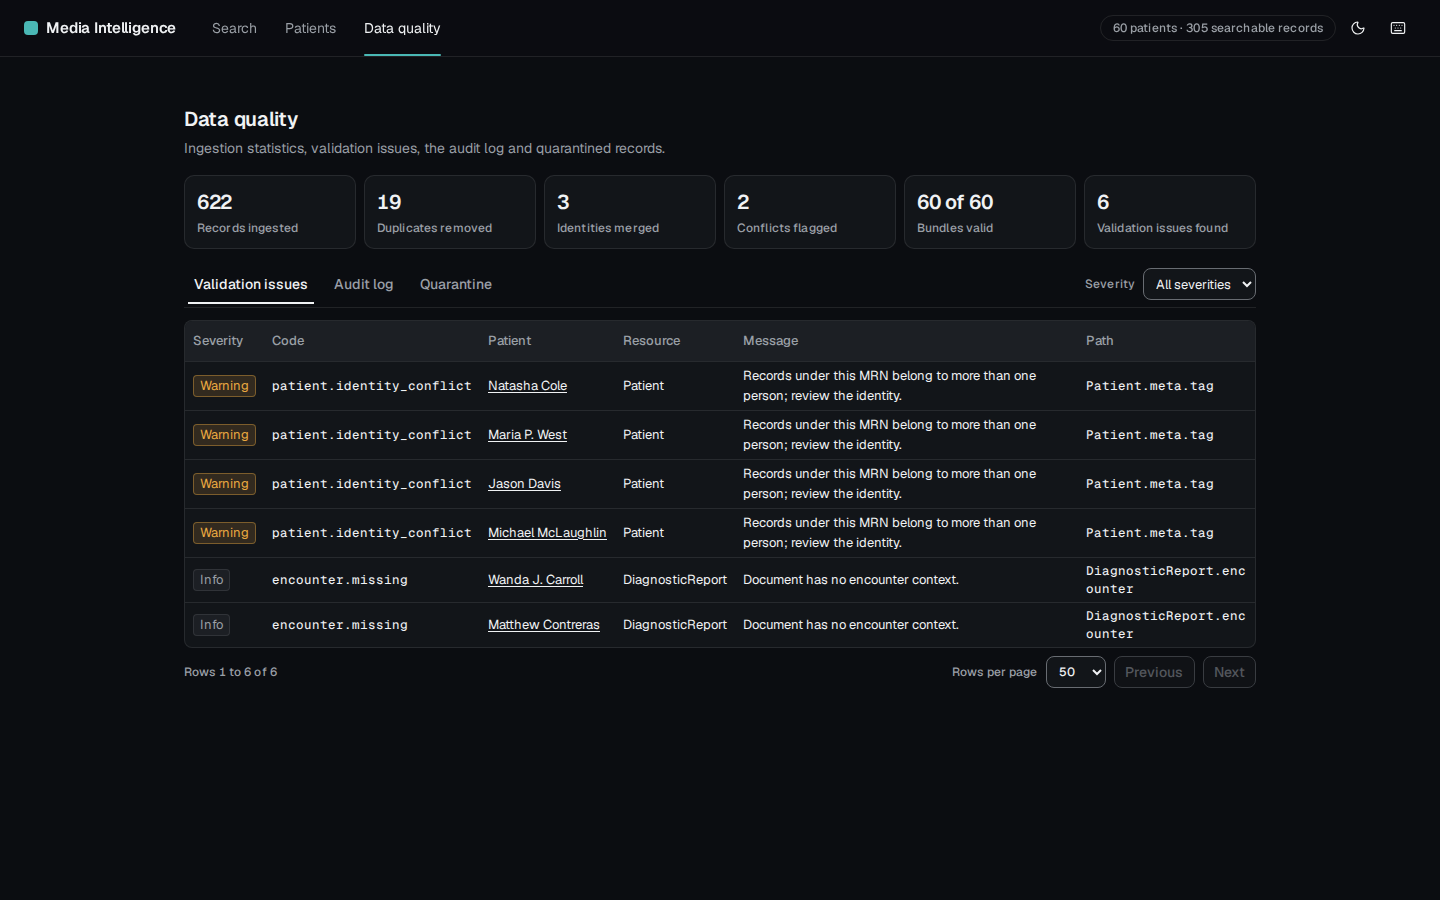
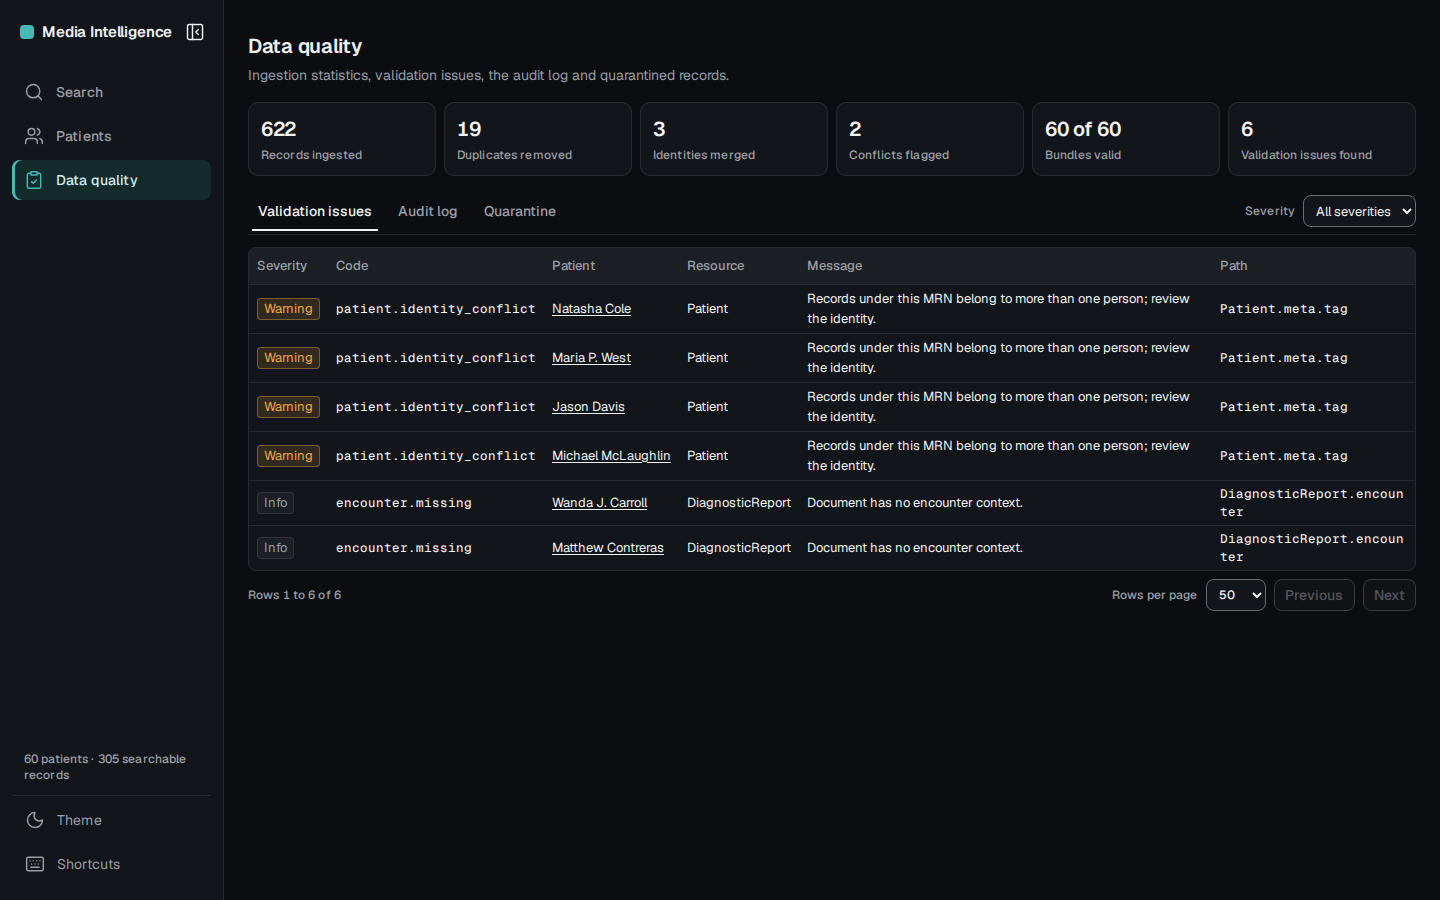
docs: update screenshots, heuristic review and changelog for the sidebar

diff --git a/docs/ux/heuristic-review.md b/docs/ux/heuristic-review.md
@@ -12,7 +12,7 @@
 
 Seven findings of severity 3 and none of severity 4. All seven are fixed, each with a browser test that failed first (`frontend/e2e/review.spec.ts`, and `newest.spec.ts` for F19). The last run, 240 captures with the four states of the new sort order, found no serious axe violation, page overflow or uncaught error.
 
-F19 was missed by the screenshot review and found by the task walk below. Thirteen findings of severity 1 and 2 remain open.
+F19 was missed by the screenshot review and found by the task walk below. Two findings of severity 2 (F10 and F12) were fixed on 2026-11-23 with the sidebar layout. Eleven findings of severity 1 and 2 remain open.
 
 ## Fixed
 
@@ -26,6 +26,15 @@ F19 was missed by the screenshot review and found by the task walk below. Thirte
 | F6 | 3 | Search, Patient drawer, Directory, Data quality | 4 | Input and checkbox borders measured 1.33:1 in light and 1.64:1 in dark, against the 3:1 rule. | A separate `--input-border` token meets 3:1 in both themes. |
 | F19 | 3 | Search | 7 | A question for the most recent record cannot be answered from search. It shows five results by relevance with no date order, and the newest of six pulmonary embolism CT reports is absent from the five, also with the type filter. | Sort by Newest scans the whole index for records with every search word and orders them by date. AI summaries are left out. |
 
+## Fixed with the sidebar layout
+
+Tested from 320 to 2560 px by `frontend/e2e/fit.spec.ts`, which failed first. The 240 captures were repeated on the new layout with no serious axe violation, page overflow or uncaught error.
+
+| Id | Severity | Screen | Heuristic | Finding | Fix |
+|---|---|---|---|---|---|
+| F10 | 2 | Directory | 6 | Below 1280 px the Anomalies column starts off screen, so a High flag is found only by scrolling sideways. | A narrow table becomes labeled cards and a wide one wraps, so the flag is never off to the side. |
+| F12 | 2 | Data quality | 7 | On a phone every data quality table needs sideways scrolling. | Each row becomes a labeled card. |
+
 ## Open
 
 | Id | Severity | Screen | Heuristic | Finding |
@@ -33,9 +42,7 @@ F19 was missed by the screenshot review and found by the task walk below. Thirte
 | F7 | 2 | Patient drawer | 8 | On a phone the Offline summary tooltip opens with the drawer and covers the provenance line. |
 | F8 | 2 | Patient drawer | 2 | The summary gives the age at the latest record and the header gives today's age (26 and 28 for one patient), without saying so. |
 | F9 | 2 | Patient drawer | 4 | The overview prints ISO dates while the rest of the app prints `Aug 17, 2024`. |
-| F10 | 2 | Directory | 6 | Below 1280 px the Anomalies column starts off screen, so a High flag is found only by scrolling sideways. |
 | F11 | 2 | Data quality | 2 | Rule codes and the JSON preview in quarantine are written for engineers. |
-| F12 | 2 | Data quality | 7 | On a phone every data quality table needs sideways scrolling. |
 | F13 | 2 | Search | 1 | The rate limit message states the wait and does not count down. |
 | F14 | 1 | Search, Patient drawer | 2 | Offline and missing summary messages tell a clinician to check the API or run the pipeline. |
 | F15 | 1 | Search, Patient drawer, Directory, Data quality | 8 | Error states show the request id twice, short and full. |
@@ -70,8 +77,8 @@ The worst severity found for each screen and heuristic.
 | 3. User control and freedom | 0 | 0 | 0 | 1 | 0 | 0 |
 | 4. Consistency and standards | 0 | 2 | 0 | 0 | 0 | 0 |
 | 5. Error prevention | 0 | 0 | 0 | 0 | 0 | 0 |
-| 6. Recognition rather than recall | 0 | 0 | 0 | 2 | 0 | 0 |
-| 7. Flexibility and efficiency | 2 | 0 | 0 | 0 | 2 | 0 |
+| 6. Recognition rather than recall | 0 | 0 | 0 | 0 | 0 | 0 |
+| 7. Flexibility and efficiency | 2 | 0 | 0 | 0 | 0 | 0 |
 | 8. Aesthetic and minimalist design | 1 | 2 | 0 | 1 | 1 | 0 |
 | 9. Help with errors | 0 | 0 | 0 | 0 | 0 | 0 |
 | 10. Help and documentation | 0 | 0 | 0 | 0 | 0 | 0 |

diff --git a/CHANGELOG.md b/CHANGELOG.md
@@ -8,6 +8,8 @@ All notable changes to this project are documented here. The format follows [Kee
 - A free public demo deployment: `render.yaml`, an index built into the API image, a demo banner that also covers cold starts, and `docs/DEPLOY.md`.
 
 ### Changed
+- The top navigation is a sidebar with icons and labels that opens, closes and remembers the choice. Phones keep a menu.
+- Content fills the screen from 320 to 2560 px. Tables become labeled cards in narrow containers, text in cards and the drawer wraps, and type scales on screens of 1920 px and wider.
 - GitHub Actions is switched off because no hosted runner is available. The README, write-up and docs/07, 09 and 10 now say that the gates run by hand, and no longer claim an automated container hardening check.
 
 ### Fixed
